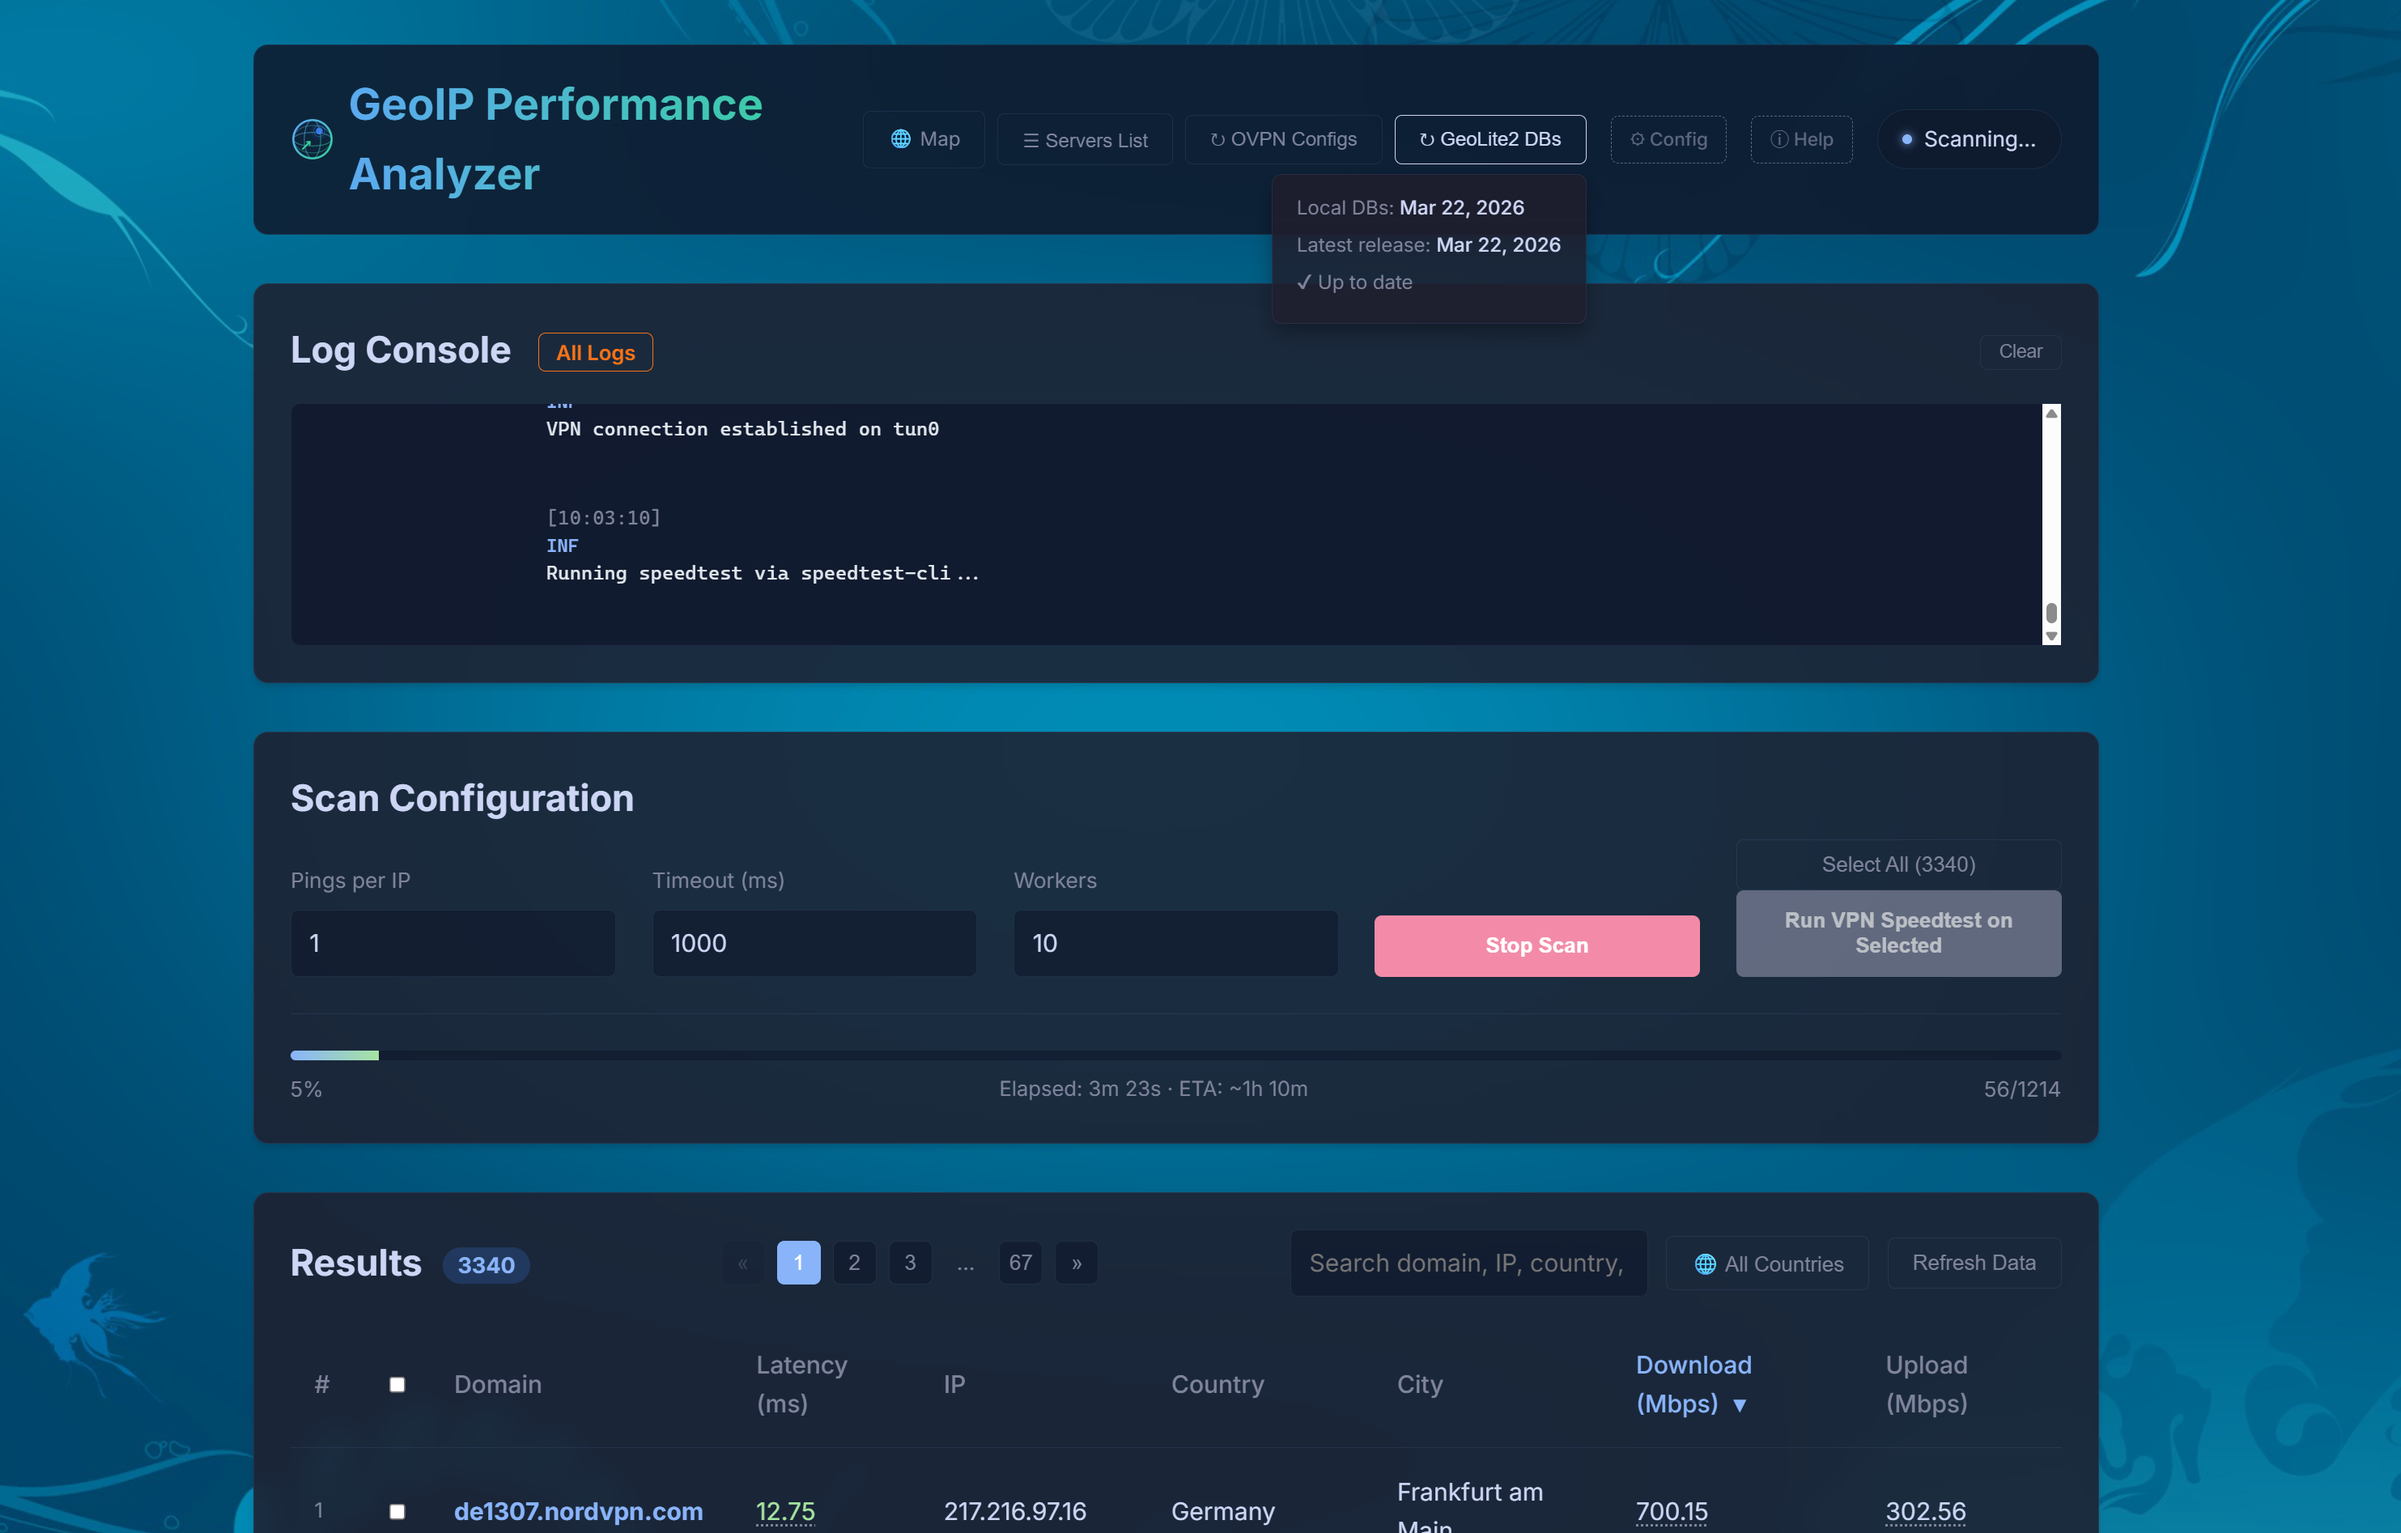
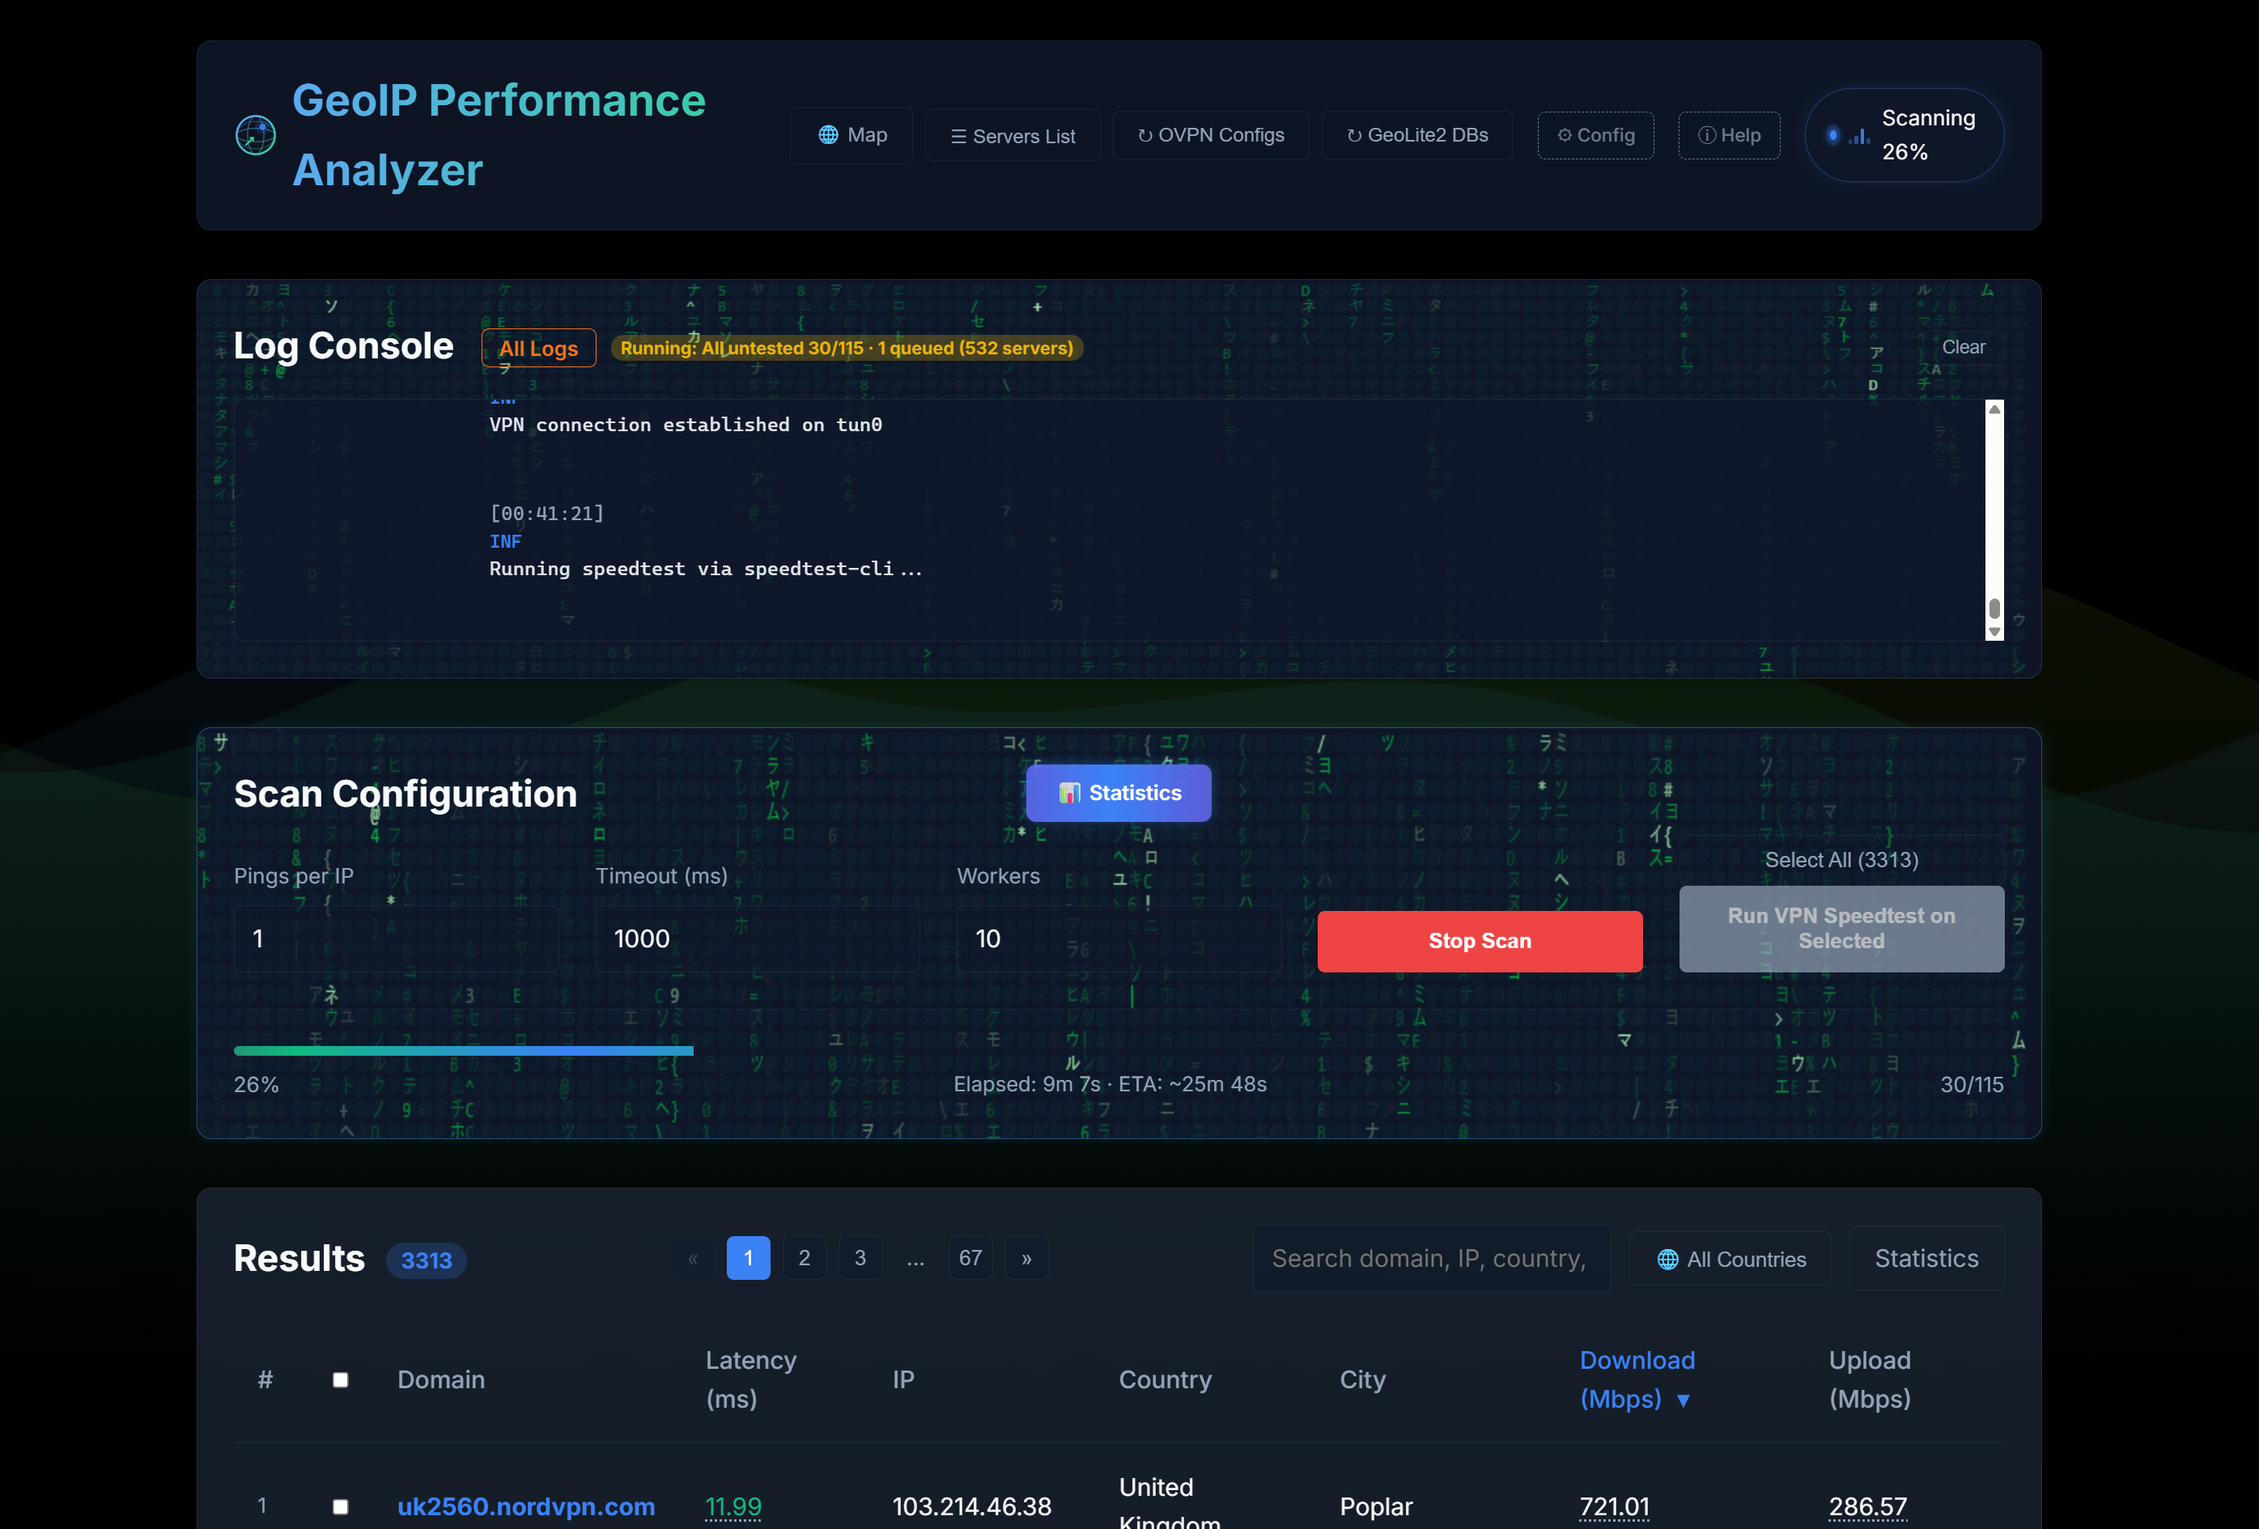
docs: update README with statistics screenshot and refreshed web-ui

diff --git a/README.md b/README.md
@@ -14,7 +14,8 @@ Use it to find the best VPN server, the closest CDN edge, or simply understand y
 
 - **Interactive Server Map** — Leaflet-based heatmap with color-coded markers by latency or speed. Fastest server per country pulses. Your measurement origin is displayed so you can see what "relative to" means.
 - **VPN Speedtest** — Measure real download/upload throughput through OpenVPN tunnels. Filter by country. View OVPN configs directly in the browser.
-- **Full Automation** — Schedule scans, GeoLite DB updates, OVPN config downloads, and server list refreshes on daily/weekly/monthly/custom intervals — all from the Config UI.
+- **Statistics Dashboard** — Per-country breakdown of servers, latency, download/upload speeds, succeeded/failed/untested counts. One-click "Speedtest Untested" and "Retry Failed" buttons with a server-side queue that never drops scheduled jobs.
+- **Full Automation** — Schedule scans, GeoLite DB updates, OVPN config downloads, and server list refreshes on daily/weekly/monthly/custom intervals — all from the Config UI. Scheduled speedtests queue automatically if another operation is running.
 - **12 Themes & Custom Wallpapers** — Dark palettes (Dracula, Nord, Carbon, etc.) and 19 background patterns, plus custom wallpaper upload.
 - **Push Notifications** — Get notified via [ntfy](https://ntfy.sh) when scans complete, updates finish, or errors occur.
 - **REST API** — Full programmatic access: trigger scans, fetch results, manage config, upload data.
@@ -28,6 +29,12 @@ Use it to find the best VPN server, the closest CDN edge, or simply understand y
 *Download speed — zoomed into Zurich with "Show all servers" enabled:*
 
 ![Map – download speed](assets/map.png)
+
+### Statistics
+
+*Per-country breakdown with one-click speedtest actions and totals:*
+
+![Statistics](assets/statistics.png)
 
 ### Config & Automation
 
